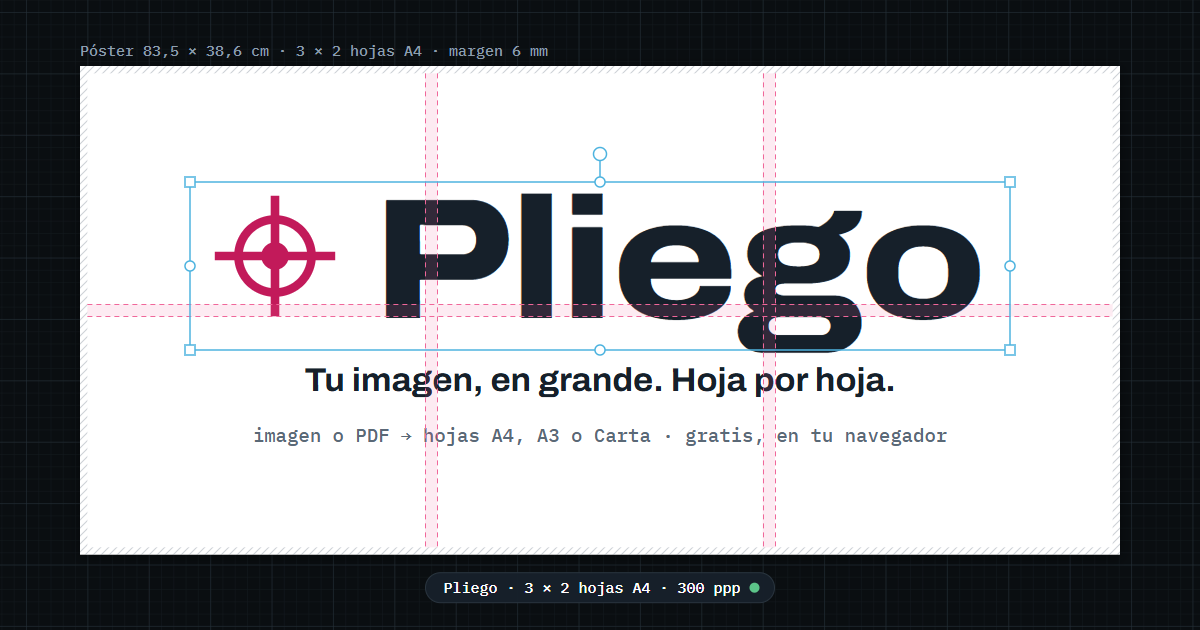
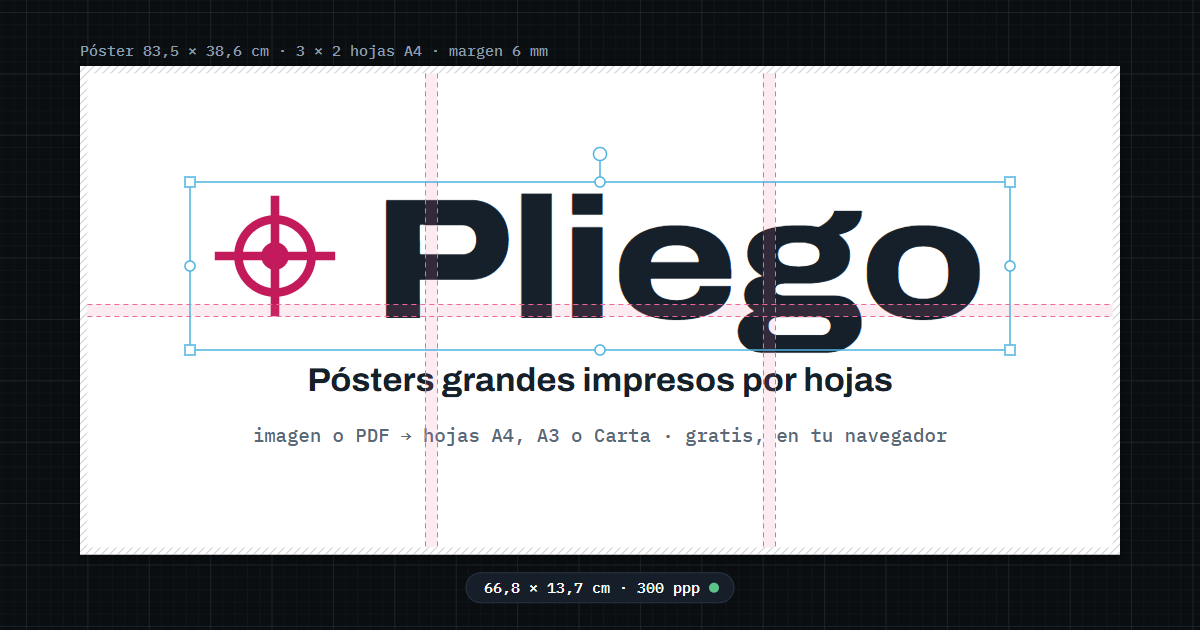
Vista previa coherente: tamaño de la selección y la misma frase que el título
- La etiqueta bajo la selección muestra su tamaño (66,8 × 13,7 cm ·
  300 ppp), como en la app, en vez de repetir la distribución de hojas.
- La imagen lleva la misma frase que el título de la página.
- La imagen se pide como og.png?v=2 para que las redes no muestren la
  que tienen guardada.

Changed region(s): [[0.2467, 0.573, 0.74, 0.6333], [0.37, 0.9048, 0.6475, 0.9651]]

diff --git a/scripts/og/og.html b/scripts/og/og.html
@@ -94,7 +94,8 @@
     const word = el('text', { x: 372, y: 318, 'font-size': 172, 'font-weight': 800, 'font-stretch': '118%', 'letter-spacing': -2, fill: 'var(--ink)' }, art);
     word.textContent = 'Pliego';
     const tag = el('text', { x: W / 2, y: 391, 'text-anchor': 'middle', 'font-size': 33, 'font-weight': 700, 'font-stretch': '104%', fill: 'var(--ink)' }, art);
-    tag.textContent = 'Tu imagen, en grande. Hoja por hoja.';
+    // el mismo lema que el título de la página (src/layouts/Layout.astro): un solo mensaje al compartir
+    tag.textContent = 'Pósters grandes impresos por hojas';
     const sub = el('text', { x: W / 2, y: 442, 'text-anchor': 'middle', class: 'mono', 'font-size': 19, fill: 'var(--ink-muted)' }, art);
     sub.textContent = 'imagen o PDF → hojas A4, A3 o Carta · gratis, en tu navegador';
 
@@ -122,10 +123,12 @@
     for (const [x, y] of [[sel.x0, sel.y0], [sel.x1, sel.y0], [sel.x0, sel.y1], [sel.x1, sel.y1]]) el('rect', { x: x - 5, y: y - 5, width: 10, height: 10 }, ui);
     for (const [x, y] of [[mx, sel.y0], [mx, sel.y1], [sel.x0, my], [sel.x1, my]]) el('circle', { cx: x, cy: y, r: 5 }, ui);
 
-    // etiqueta bajo el póster, como la de tamaño y calidad de la app (con un borde para que se lea en la mesa oscura)
+    // etiqueta bajo la selección, como en la app: tamaño de lo seleccionado en cm y calidad (con un borde para que se
+    // lea en la mesa oscura). La distribución de hojas ya está en el nombre del póster, arriba
     const pill = el('g', {}, svg);
     const pt = el('text', { x: 0, y: 0, class: 'mono', 'font-size': 15, fill: '#fff', 'dominant-baseline': 'middle' }, pill);
-    pt.textContent = 'Pliego · 3 × 2 hojas A4 · 300 ppp';
+    const cm = (px) => (px / k / 10).toFixed(1).replace('.', ',');
+    pt.textContent = `${cm(sel.x1 - sel.x0)} × ${cm(sel.y1 - sel.y0)} cm · 300 ppp`;
 
     /* ---------- icono de iOS: la marca sobre el panel oscuro (iOS redondea las esquinas) ---------- */
     const icon = el('svg', { width: 180, height: 180, viewBox: '0 0 180 180' }, document.querySelector('#icon'));
